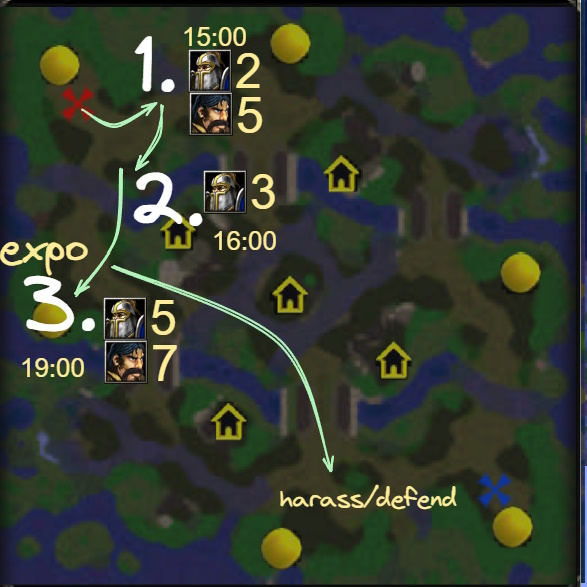
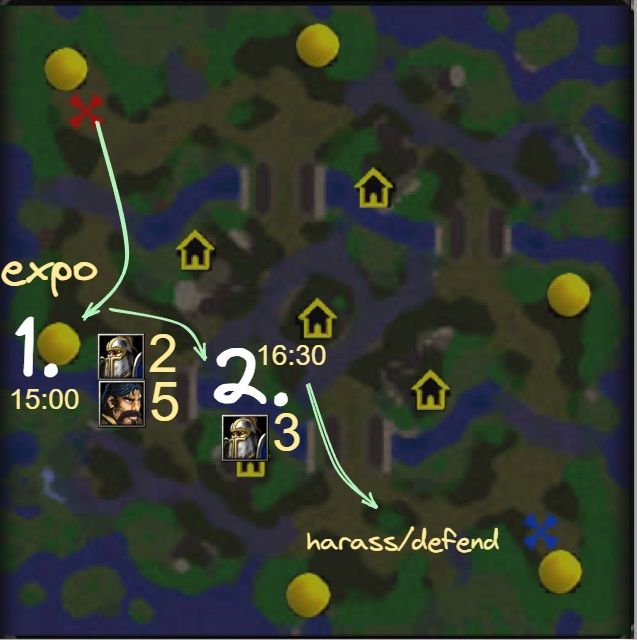
Update HvN Hammerfall creeproute. Add support for sample games for each creep route

diff --git a/src/stores/races.ts b/src/stores/races.ts
@@ -129,79 +129,86 @@ import cr_missing from "@/assets/creeproutes/missing.png";
 export const creeproutes: any = {
   [Race.Human]: {
     [Race.Random]: {
-      "Autumn Leaves v2": cr_hu_vs_r_1,
-      "Echo Isles v2": cr_missing,
-      "Gloom Stalker": cr_missing,
-      "Concealed Hill": cr_hu_vs_r_2,
-      Hammerfall: cr_hu_vs_r_3,
-      "Last Refuge": cr_hu_vs_r_4,
-      "Northern Isles": cr_hu_vs_r_5,
-      "Shallow Grave": cr_hu_vs_r_6,
-      Springtime: cr_hu_vs_r_8,
-      "Shattered Exile v2": cr_missing,
-      "Lost Temple LV": cr_missing,
-      Tidehunters: cr_hu_vs_r_7,
-      "Twisted Meadows": cr_missing,
+      "Autumn Leaves v2": { img: cr_hu_vs_r_1, games: [] },
+      "Echo Isles v2": { img: cr_missing, games: [] },
+      "Gloom Stalker": { img: cr_missing, games: [] },
+      "Concealed Hill": { img: cr_hu_vs_r_2, games: [] },
+      Hammerfall: { img: cr_hu_vs_r_3, games: [] },
+      "Last Refuge": { img: cr_hu_vs_r_4, games: [] },
+      "Northern Isles": { img: cr_hu_vs_r_5, games: [] },
+      "Shallow Grave": { img: cr_hu_vs_r_6, games: [] },
+      Springtime: { img: cr_hu_vs_r_8, games: [] },
+      "Shattered Exile v2": { img: cr_missing, games: [] },
+      "Lost Temple LV": { img: cr_missing, games: [] },
+      Tidehunters: { img: cr_hu_vs_r_7, games: [] },
+      "Twisted Meadows": { img: cr_missing, games: [] },
     },
     [Race.Human]: {
-      "Autumn Leaves v2": cr_hu_vs_hu_1,
-      "Echo Isles v2": cr_missing,
-      "Gloom Stalker": cr_missing,
-      "Concealed Hill": cr_hu_vs_hu_2,
-      Hammerfall: cr_hu_vs_hu_3,
-      "Last Refuge": cr_hu_vs_hu_4,
-      "Northern Isles": cr_hu_vs_hu_5,
-      "Shallow Grave": cr_hu_vs_hu_6,
-      Springtime: cr_hu_vs_hu_8,
-      "Shattered Exile v2": cr_missing,
-      "Lost Temple LV": cr_missing,
-      Tidehunters: cr_hu_vs_hu_7,
-      "Twisted Meadows": cr_missing,
+      "Autumn Leaves v2": { img: cr_hu_vs_hu_1, games: [] },
+      "Echo Isles v2": { img: cr_missing, games: [] },
+      "Gloom Stalker": { img: cr_missing, games: [] },
+      "Concealed Hill": { img: cr_hu_vs_hu_2, games: [] },
+      Hammerfall: { img: cr_hu_vs_hu_3, games: [] },
+      "Last Refuge": { img: cr_hu_vs_hu_4, games: [] },
+      "Northern Isles": { img: cr_hu_vs_hu_5, games: [] },
+      "Shallow Grave": { img: cr_hu_vs_hu_6, games: [] },
+      Springtime: { img: cr_hu_vs_hu_8, games: [] },
+      "Shattered Exile v2": { img: cr_missing, games: [] },
+      "Lost Temple LV": { img: cr_missing, games: [] },
+      Tidehunters: { img: cr_hu_vs_hu_7, games: [] },
+      "Twisted Meadows": { img: cr_missing, games: [] },
     },
     [Race.Orc]: {
-      "Autumn Leaves v2": cr_hu_vs_oc_1,
-      "Echo Isles v2": cr_missing,
-      "Gloom Stalker": cr_missing,
-      "Concealed Hill": cr_hu_vs_oc_2,
-      Hammerfall: cr_hu_vs_oc_3,
-      "Last Refuge": cr_hu_vs_oc_4,
-      "Northern Isles": cr_hu_vs_oc_5,
-      "Shallow Grave": cr_hu_vs_oc_6,
-      Springtime: cr_hu_vs_oc_8,
-      "Shattered Exile v2": cr_missing,
-      "Lost Temple LV": cr_missing,
-      Tidehunters: cr_hu_vs_oc_7,
-      "Twisted Meadows": cr_missing,
+      "Autumn Leaves v2": { img: cr_hu_vs_oc_1, games: [] },
+      "Echo Isles v2": { img: cr_missing, games: [] },
+      "Gloom Stalker": { img: cr_missing, games: [] },
+      "Concealed Hill": { img: cr_hu_vs_oc_2, games: [] },
+      Hammerfall: { img: cr_hu_vs_oc_3, games: [] },
+      "Last Refuge": { img: cr_hu_vs_oc_4, games: [] },
+      "Northern Isles": { img: cr_hu_vs_oc_5, games: [] },
+      "Shallow Grave": { img: cr_hu_vs_oc_6, games: [] },
+      Springtime: { img: cr_hu_vs_oc_8, games: [] },
+      "Shattered Exile v2": { img: cr_missing, games: [] },
+      "Lost Temple LV": { img: cr_missing, games: [] },
+      Tidehunters: { img: cr_hu_vs_oc_7, games: [] },
+      "Twisted Meadows": { img: cr_missing, games: [] },
     },
     [Race.NightElf]: {
-      "Autumn Leaves v2": cr_hu_vs_ne_1,
-      "Echo Isles v2": cr_missing,
-      "Gloom Stalker": cr_missing,
-      "Concealed Hill": cr_hu_vs_ne_2,
-      Hammerfall: cr_hu_vs_ne_3,
-      "Last Refuge": cr_hu_vs_ne_4,
-      "Northern Isles": cr_hu_vs_ne_5,
-      "Shallow Grave": cr_hu_vs_ne_6,
-      Springtime: cr_hu_vs_ne_8,
-      "Shattered Exile v2": cr_missing,
-      "Lost Temple LV": cr_missing,
-      Tidehunters: cr_hu_vs_ne_7,
-      "Twisted Meadows": cr_missing,
+      "Autumn Leaves v2": { img: cr_hu_vs_ne_1, games: [] },
+      "Echo Isles v2": { img: cr_missing, games: [] },
+      "Gloom Stalker": { img: cr_missing, games: [] },
+      "Concealed Hill": { img: cr_hu_vs_ne_2, games: [] },
+      Hammerfall: {
+        img: cr_hu_vs_ne_3,
+        games: [
+          "66ae269882a9ebbac5b59633",
+          "66a22e9382a9ebbac50747a8",
+          "669a96e482a9ebbac54e89af",
+        ],
+      },
+      "Last Refuge": { img: cr_hu_vs_ne_4, games: [] },
+      "Northern Isles": { img: cr_hu_vs_ne_5, games: [] },
+      "Shallow Grave": { img: cr_hu_vs_ne_6, games: [] },
+      Springtime: { img: cr_hu_vs_ne_8, games: [] },
+      "Shattered Exile v2": { img: cr_missing, games: [] },
+      "Lost Temple LV": { img: cr_missing, games: [] },
+      Tidehunters: { img: cr_hu_vs_ne_7, games: [] },
+      "Twisted Meadows": { img: cr_missing, games: [] },
     },
     [Race.Undead]: {
-      "Autumn Leaves v2": cr_hu_vs_ud_1,
-      "Echo Isles v2": cr_missing,
-      "Gloom Stalker": cr_missing,
-      "Concealed Hill": cr_hu_vs_ud_2,
-      Hammerfall: cr_hu_vs_ud_3,
-      "Last Refuge": cr_hu_vs_ud_4,
-      "Northern Isles": cr_hu_vs_ud_5,
-      "Shallow Grave": cr_hu_vs_ud_6,
-      Springtime: cr_missing,
-      "Shattered Exile v2": cr_missing,
-      "Lost Temple LV": cr_missing,
-      Tidehunters: cr_hu_vs_ud_7,
-      "Twisted Meadows": cr_missing,
+      "Autumn Leaves v2": { img: cr_hu_vs_ud_1, games: [] },
+      "Echo Isles v2": { img: cr_missing, games: [] },
+      "Gloom Stalker": { img: cr_missing, games: [] },
+      "Concealed Hill": { img: cr_hu_vs_ud_2, games: [] },
+      Hammerfall: { img: cr_hu_vs_ud_3, games: [] },
+      "Last Refuge": { img: cr_hu_vs_ud_4, games: [] },
+      "Northern Isles": { img: cr_hu_vs_ud_5, games: [] },
+      "Shallow Grave": { img: cr_hu_vs_ud_6, games: [] },
+      Springtime: { img: cr_missing, games: [] },
+      "Shattered Exile v2": { img: cr_missing, games: [] },
+      "Lost Temple LV": { img: cr_missing, games: [] },
+      Tidehunters: { img: cr_hu_vs_ud_7, games: [] },
+      "Twisted Meadows": { img: cr_missing, games: [] },
     },
   },
 };

diff --git a/src/views/CreepRoutesView.vue b/src/views/CreepRoutesView.vue
@@ -1,5 +1,7 @@
 <script setup lang="ts">
 import { Race, creeproutes, raceIcon, raceName } from "@/stores/races";
+
+const open = (path: string) => window.open(path, "_blank");
 </script>
 
 <template>
@@ -58,28 +60,49 @@ import { Race, creeproutes, raceIcon, raceName } from "@/stores/races";
               /></v-col>
               <v-col cols="3"
                 ><img
-                  :src="creeproutes[player][Race.Human][map]"
+                  :src="creeproutes[player][Race.Human][map].img"
                   width="100%"
                   style="border: 1px solid white"
               /></v-col>
               <v-col cols="3"
                 ><img
-                  :src="creeproutes[player][Race.Orc][map]"
+                  :src="creeproutes[player][Race.Orc][map].img"
                   width="100%"
                   style="border: 1px solid white"
               /></v-col>
               <v-col cols="3"
                 ><img
-                  :src="creeproutes[player][Race.Undead][map]"
+                  :src="creeproutes[player][Race.Undead][map].img"
                   width="100%"
                   style="border: 1px solid white"
               /></v-col>
-              <v-col cols="3"
-                ><img
-                  :src="creeproutes[player][Race.NightElf][map]"
-                  width="100%"
-                  style="border: 1px solid white"
-              /></v-col>
+              <v-col cols="3">
+                <v-row>
+                  <v-col cols="12">
+                    <img
+                      :src="creeproutes[player][Race.NightElf][map].img"
+                      width="100%"
+                      style="border: 1px solid white"
+                    />
+                  </v-col>
+                  <v-col cols="12" class="p-0 text-center">
+                    <v-btn
+                      v-for="(game, i) in creeproutes[player][Race.NightElf][
+                        map
+                      ].games"
+                      @click="
+                        () => open(`https://www.w3champions.com/match/${game}`)
+                      "
+                      :text="`Game ${i + 1}`"
+                      title="Go to match in w3champions demonstrating this creep route"
+                      size="x-small"
+                      color="orange"
+                      prepend-icon="mdi-link"
+                      variant="text"
+                    />
+                  </v-col>
+                </v-row>
+              </v-col>
             </v-row>
           </v-col>
         </v-row>
